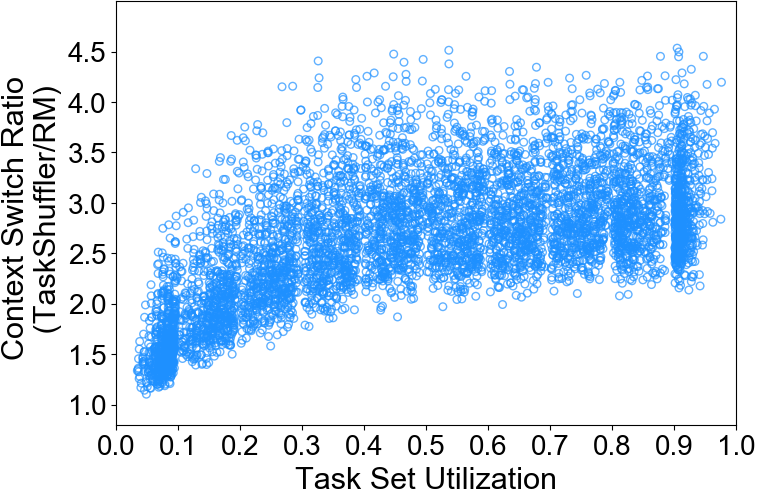
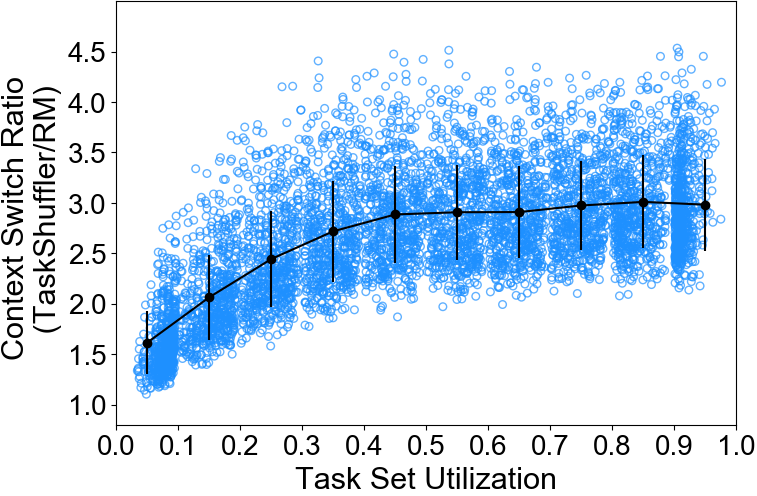
[rtsched] Add error bars to the plot for context switch overhead

diff --git a/experiments/plot_scripts/PlotContextSwitchIncreaseRatio.py b/experiments/plot_scripts/PlotContextSwitchIncreaseRatio.py
@@ -28,6 +28,19 @@ def plot_context_switch_increase_ratio(show_plot, in_csv_file_list, out_plot_fil
     x = data_dict1['Utilization']
     y = data_dict2['Context_Switches']/data_dict1['Context_Switches'] # context switch ratio
 
+    x_mean = []
+    y_mean = []
+    y_error = []
+    for u in range(10):
+        util = u/10
+        matched_values = np.array([])
+        for i in range(len(y)):
+            if x[i]>=util and x[i]<(util+0.1):
+                matched_values = np.append(matched_values, y[i])
+        x_mean.append(u/10 + 0.05)
+        y_mean.append(matched_values.mean())
+        y_error.append(matched_values.std())
+
 
     # plot general config
     # plt.title('Interesting Graph\nCheck it out')
@@ -58,7 +71,8 @@ def plot_context_switch_increase_ratio(show_plot, in_csv_file_list, out_plot_fil
     # data points
     markerSize = 30
     plt.scatter(x, y, marker='o', facecolors='none', color='DodgerBlue', alpha=0.7, s=[markerSize for i in range(len(y))])
-    # plt.scatter(x, y1, marker='o', facecolors='none', color='grey', alpha=0.5, s=[markerSize for i in range(len(y1))], label=plot_labels[0])
+
+    plt.errorbar(x_mean,y_mean,y_error,color="black",marker='o')
 
 
     # Post plot configurations
